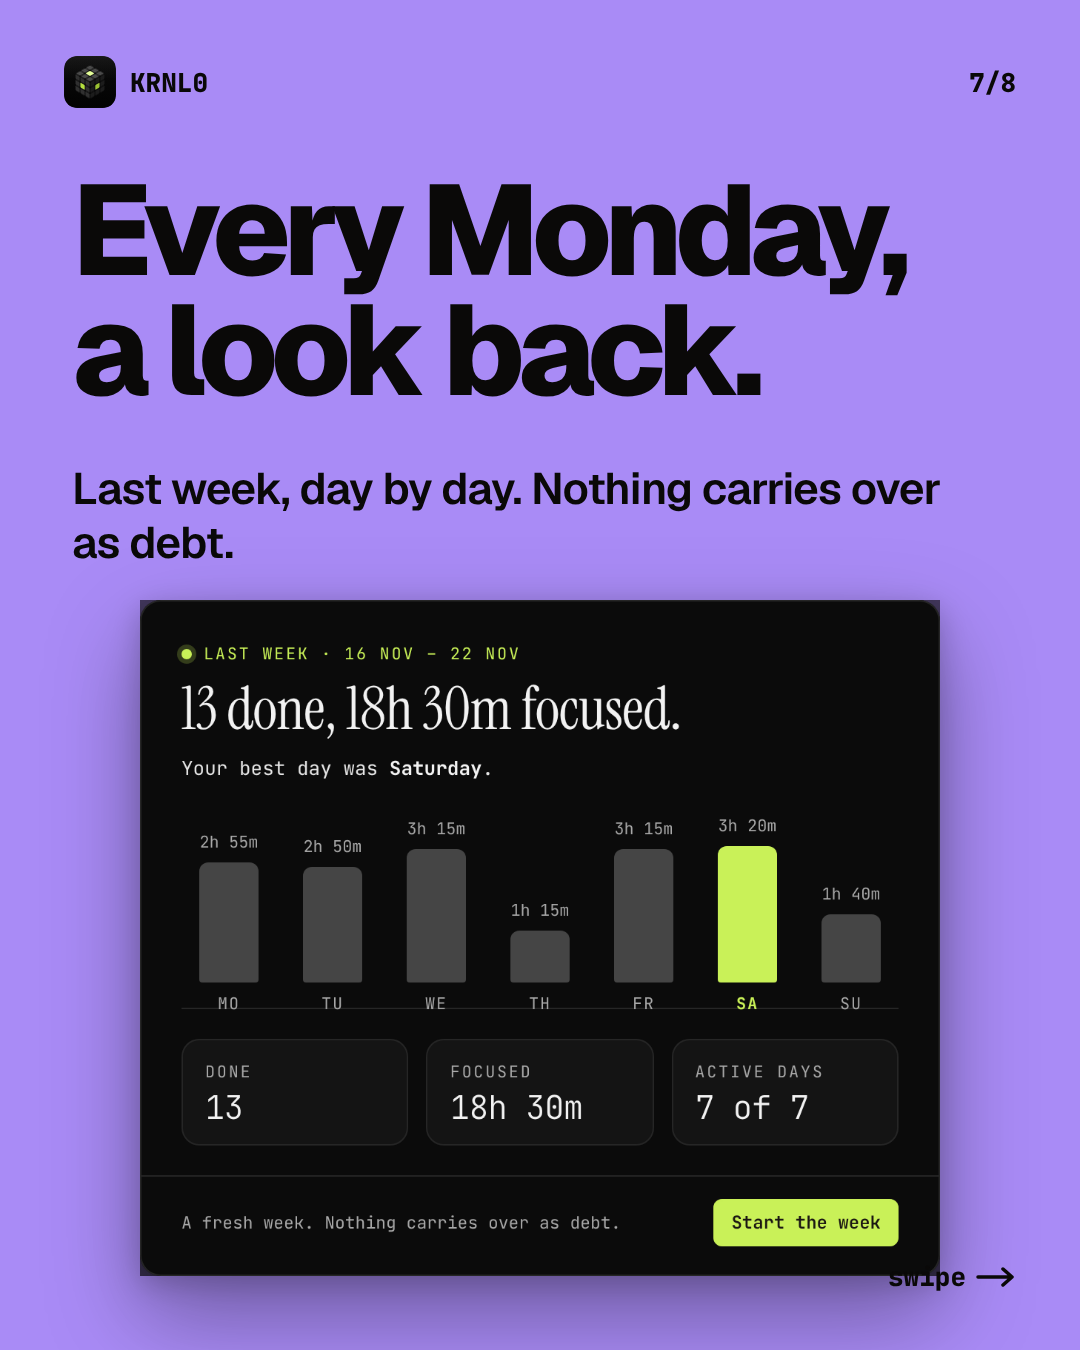
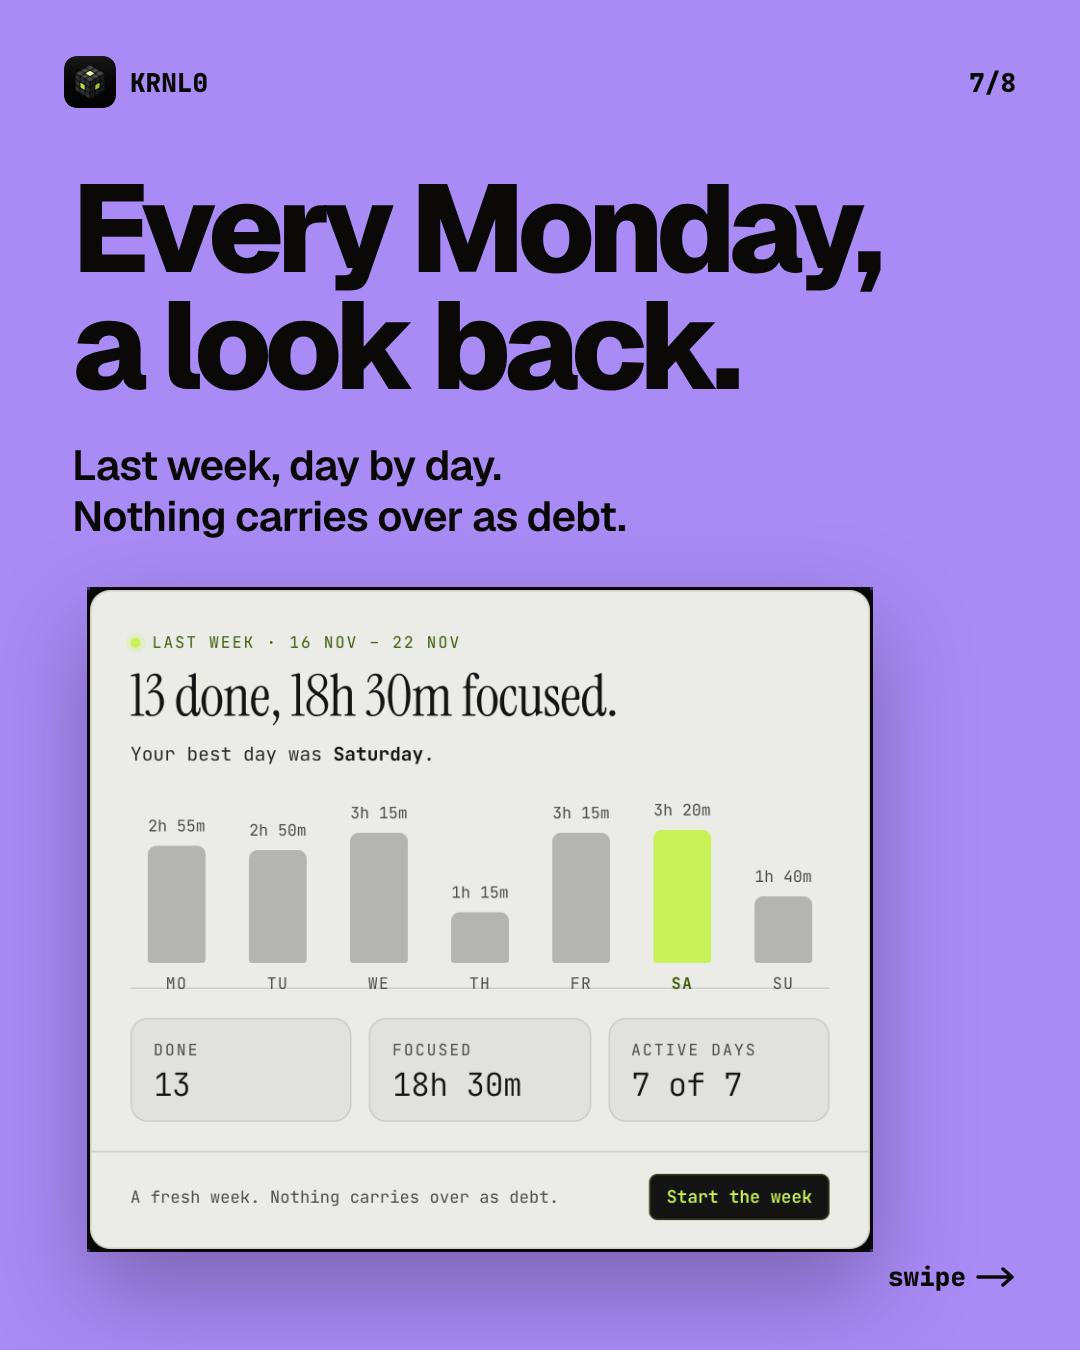
wip(marketing): carousel posts (02, 03, 04, 06, 08, 09, 10, 11 done)

diff --git a/marketing/posts/06-your-canvas/html/slide-6.html b/marketing/posts/06-your-canvas/html/slide-6.html
@@ -5,7 +5,7 @@ body{margin:0} .slide .h{position:absolute;left:64px;right:64px}
 .lab{position:absolute;z-index:2}</style></head><body><div class="slide lav">
 <div class="h headline" style="top:140px;font-size:104px">One shortcut<br>flips them.</div>
 <div class="h" style="top:372px"><span class="chip" style="font-size:34px;padding:12px 26px">Ctrl + Shift + L</span> <span style="font-family:var(--mono);font-weight:800;font-size:26px;margin-left:14px">⌘ + Shift + L on Mac</span></div>
-<div class="shot" style="left:120px;top:500px;width:840px"><img src="../shots/trim/station.png"></div>
-<div class="lab" style="left:64px;top:482px"><span class="chip" style="background:var(--paper);color:var(--ink)">My layout</span></div>
-<div class="shot" style="left:120px;top:971px;width:840px"><img src="../shots/trim/free.png"></div>
-<div class="lab" style="left:64px;top:953px"><span class="chip">Free canvas</span></div><div class="bar"><div class="brand"><img src="../../_shared/icon.svg" alt=""><span>KRNL0</span></div><span>6/7</span></div><div class="swipe">swipe <svg width="40" height="20" viewBox="0 0 40 20"><path d="M2 10h32M26 3l8 7-8 7" fill="none" stroke="currentColor" stroke-width="3.5" stroke-linecap="round" stroke-linejoin="round"/></svg></div></div></body></html>
+<div class="shot" style="left:64px;top:536px;width:700px"><img src="../shots/trim/station.png"></div>
+<div class="lab" style="left:64px;top:478px"><span class="chip" style="background:var(--paper);color:var(--ink)">My layout</span></div>
+<div class="shot" style="left:64px;top:958px;width:700px"><img src="../shots/trim/free.png"></div>
+<div class="lab" style="left:64px;top:900px"><span class="chip">Free canvas</span></div><div class="bar"><div class="brand"><img src="../../_shared/icon.svg" alt=""><span>KRNL0</span></div><span>6/7</span></div><div class="swipe">swipe <svg width="40" height="20" viewBox="0 0 40 20"><path d="M2 10h32M26 3l8 7-8 7" fill="none" stroke="currentColor" stroke-width="3.5" stroke-linecap="round" stroke-linejoin="round"/></svg></div></div></body></html>

diff --git a/marketing/posts/06-your-canvas/html/slide-4.html b/marketing/posts/06-your-canvas/html/slide-4.html
@@ -2,8 +2,8 @@
 body{margin:0} .slide .h{position:absolute;left:64px;right:64px}
 .shot{position:absolute;filter:drop-shadow(2px 0 0 #0a0908) drop-shadow(-2px 0 0 #0a0908) drop-shadow(0 2px 0 #0a0908) drop-shadow(0 -2px 0 #0a0908) drop-shadow(0 30px 40px rgba(0,0,0,.30))}
 .shot img{display:block;width:100%}
-</style></head><body><div class="slide ink">
+</style></head><body><div class="slide cyan">
 <div class="h headline" style="top:150px;font-size:128px">Group it<br>in a frame.</div>
 <div class="h sub" style="top:430px;max-width:860px">Drag the frame and everything inside moves with it.</div>
-<div class="shot" style="left:190px;top:560px;width:700px"><img src="../shots/trim/frame.png"></div>
-<div class="chip" style="position:absolute;left:64px;top:1299px;background:var(--acid);color:var(--ink)">Frame · F</div><div class="bar"><div class="brand"><img src="../../_shared/icon.svg" alt=""><span>KRNL0</span></div><span>4/7</span></div><div class="swipe">swipe <svg width="40" height="20" viewBox="0 0 40 20"><path d="M2 10h32M26 3l8 7-8 7" fill="none" stroke="currentColor" stroke-width="3.5" stroke-linecap="round" stroke-linejoin="round"/></svg></div></div></body></html>
+<div class="shot" style="left:210px;top:560px;width:660px"><img src="../shots/trim/frame.png"></div>
+<div class="chip" style="position:absolute;left:64px;top:1255px;background:var(--acid);color:var(--ink)">Frame · F</div><div class="bar"><div class="brand"><img src="../../_shared/icon.svg" alt=""><span>KRNL0</span></div><span>4/7</span></div><div class="swipe">swipe <svg width="40" height="20" viewBox="0 0 40 20"><path d="M2 10h32M26 3l8 7-8 7" fill="none" stroke="currentColor" stroke-width="3.5" stroke-linecap="round" stroke-linejoin="round"/></svg></div></div></body></html>

diff --git a/marketing/posts/05-planned-vs-spent/slides/slide-2.html b/marketing/posts/05-planned-vs-spent/slides/slide-2.html
@@ -1,8 +1,7 @@
 <!doctype html><html><head><meta charset="utf-8"><link rel="stylesheet" href="slides.css"></head><body>
 <div class="slide lav" id="s"><div class="bar"><div class="brand"><img src="../../_shared/icon.svg"><span>KRNL0</span></div><span>2/8</span></div>
-<div class="h" style="top:170px;font-size:122px">A list tells<br>you what.<br>Not how long.</div>
-<div class="sub" style="top:540px;font-size:44px">You write the plan. Then you guess the time.</div>
-<div class="shot" style="left:140px;top:690px;width:800px"><img src="../assets/todo.png"></div>
-<div class="cap" style="right:72px;top:1215px;display:none"></div>
-<span class="chip" style="position:absolute;right:140px;top:1222px;background:var(--ink)">&uarr; just a guess</span>
+<div class="h" style="top:170px;font-size:116px">Lists know what.<br>Not how long.</div>
+<div class="sub" style="top:430px;font-size:46px">You write the plan. Then you guess the time.</div>
+<span class="chip" style="position:absolute;right:76px;top:570px;background:var(--ink)">&darr; just a guess</span>
+<div class="shot" style="left:72px;top:650px;width:936px"><img src="../assets/todo.png"></div>
 <div class="swipe">swipe <svg width="40" height="22" viewBox="0 0 40 22" fill="none" stroke="currentColor" stroke-width="3.5" stroke-linecap="round" stroke-linejoin="round"><path d="M2 11h34M27 3l9 8-9 8"/></svg></div></div></body></html>

diff --git a/marketing/posts/05-planned-vs-spent/slides/slide-6.html b/marketing/posts/05-planned-vs-spent/slides/slide-6.html
@@ -1,6 +1,6 @@
 <!doctype html><html><head><meta charset="utf-8"><link rel="stylesheet" href="slides.css"></head><body>
-<div class="slide paper" id="s"><div class="bar"><div class="brand"><img src="../../_shared/icon.svg"><span>KRNL0</span></div><span>6/8</span></div>
-<div class="h" style="top:170px;font-size:128px">Every evening,<br>a recap.</div>
-<div class="sub" style="top:462px;max-width:900px">What got done, what was recorded, and how it went against the plan.</div>
-<div class="shot" style="left:140px;top:640px;width:800px"><img src="../assets/recap.png"></div>
+<div class="slide cyan" id="s"><div class="bar"><div class="brand"><img src="../../_shared/icon.svg"><span>KRNL0</span></div><span>6/8</span></div>
+<div class="h" style="top:170px;font-size:124px">Every evening,<br>a recap.</div>
+<div class="sub" style="top:440px;max-width:900px;font-size:42px">What got done, what was recorded, and how it went against the plan.</div>
+<div class="shot" style="left:100px;top:570px;width:840px"><img src="../assets/recap.png"></div>
 <div class="swipe">swipe <svg width="40" height="22" viewBox="0 0 40 22" fill="none" stroke="currentColor" stroke-width="3.5" stroke-linecap="round" stroke-linejoin="round"><path d="M2 11h34M27 3l9 8-9 8"/></svg></div></div></body></html>

diff --git a/marketing/posts/05-planned-vs-spent/slides/slide-7.html b/marketing/posts/05-planned-vs-spent/slides/slide-7.html
@@ -1,6 +1,6 @@
 <!doctype html><html><head><meta charset="utf-8"><link rel="stylesheet" href="slides.css"></head><body>
 <div class="slide lav" id="s"><div class="bar"><div class="brand"><img src="../../_shared/icon.svg"><span>KRNL0</span></div><span>7/8</span></div>
-<div class="h" style="top:170px;font-size:128px">Every Monday,<br>a look back.</div>
-<div class="sub" style="top:462px;max-width:900px">Last week, day by day. Nothing carries over as debt.</div>
-<div class="shot" style="left:140px;top:600px;width:800px"><img src="../assets/week.png"></div>
+<div class="h" style="top:170px;font-size:124px">Every Monday,<br>a look back.</div>
+<div class="sub" style="top:440px;max-width:900px;font-size:42px">Last week day by day,<br>with your best day picked out.</div>
+<div class="shot" style="left:90px;top:590px;width:780px"><img src="../assets/week.png"></div>
 <div class="swipe">swipe <svg width="40" height="22" viewBox="0 0 40 22" fill="none" stroke="currentColor" stroke-width="3.5" stroke-linecap="round" stroke-linejoin="round"><path d="M2 11h34M27 3l9 8-9 8"/></svg></div></div></body></html>

diff --git a/marketing/posts/06-your-canvas/html/slide-2.html b/marketing/posts/06-your-canvas/html/slide-2.html
@@ -2,7 +2,7 @@
 body{margin:0} .slide .h{position:absolute;left:64px;right:64px}
 .shot{position:absolute;filter:drop-shadow(2px 0 0 #0a0908) drop-shadow(-2px 0 0 #0a0908) drop-shadow(0 2px 0 #0a0908) drop-shadow(0 -2px 0 #0a0908) drop-shadow(0 30px 40px rgba(0,0,0,.30))}
 .shot img{display:block;width:100%}
-</style></head><body><div class="slide cyan">
+</style></head><body><div class="slide coral">
 <div class="h headline" style="top:150px;font-size:116px">Put anything<br>next to your plan.</div>
 <div class="h sub" style="top:430px;max-width:820px">Ideas, reminders and details sit right beside the task they belong to.</div>
 <div class="shot" style="left:60px;top:600px;width:960px"><img src="../shots/trim/beside.png"></div><div class="bar"><div class="brand"><img src="../../_shared/icon.svg" alt=""><span>KRNL0</span></div><span>2/7</span></div><div class="swipe">swipe <svg width="40" height="20" viewBox="0 0 40 20"><path d="M2 10h32M26 3l8 7-8 7" fill="none" stroke="currentColor" stroke-width="3.5" stroke-linecap="round" stroke-linejoin="round"/></svg></div></div></body></html>

diff --git a/marketing/posts/05-planned-vs-spent/slides/slide-4.html b/marketing/posts/05-planned-vs-spent/slides/slide-4.html
@@ -1,6 +1,6 @@
 <!doctype html><html><head><meta charset="utf-8"><link rel="stylesheet" href="slides.css"></head><body>
 <div class="slide coral" id="s"><div class="bar"><div class="brand"><img src="../../_shared/icon.svg"><span>KRNL0</span></div><span>4/8</span></div>
-<div class="h" style="top:170px;font-size:128px">Then, the<br>real numbers.</div>
-<div class="sub" style="top:462px">Planned vs spent, task by task and day by day.</div>
-<div class="shot" style="left:90px;top:560px;width:720px"><img src="../assets/plan_vs.png"></div>
+<div class="h" style="top:170px;font-size:116px">Then, the<br>real numbers.</div>
+<div class="sub" style="top:424px;font-size:42px">Planned vs spent: per task, per day.</div>
+<div class="shot" style="left:90px;top:500px;width:770px"><img src="../assets/plan_vs.png"></div>
 <div class="swipe">swipe <svg width="40" height="22" viewBox="0 0 40 22" fill="none" stroke="currentColor" stroke-width="3.5" stroke-linecap="round" stroke-linejoin="round"><path d="M2 11h34M27 3l9 8-9 8"/></svg></div></div></body></html>

diff --git a/marketing/posts/05-planned-vs-spent/slides/slides.css b/marketing/posts/05-planned-vs-spent/slides/slides.css
@@ -5,7 +5,7 @@
 .kicker { position: absolute; left: 72px; top: 168px; }
 .h { position: absolute; left: 72px; right: 72px; font-weight: 800; letter-spacing: -0.055em; line-height: .94; }
 .sub { position: absolute; left: 72px; right: 72px; font-weight: 600; font-size: 44px; line-height: 1.22; letter-spacing: -0.02em; }
-.shot { position: absolute; filter: drop-shadow(0 38px 46px rgba(0,0,0,.30)) drop-shadow(0 8px 14px rgba(0,0,0,.22)); }
+.shot { position: absolute; filter: drop-shadow(3px 0 0 var(--ink)) drop-shadow(-3px 0 0 var(--ink)) drop-shadow(0 3px 0 var(--ink)) drop-shadow(0 -3px 0 var(--ink)) drop-shadow(0 40px 48px rgba(0,0,0,.28)); }
 .shot img { display: block; width: 100%; height: auto; }
 .hi { display: inline-block; background: var(--ink); color: var(--acid); border-radius: 26px; padding: 0 .16em .06em; margin-left: -.04em; }
 .mono { font-family: var(--mono); font-weight: 800; }

diff --git a/marketing/posts/05-planned-vs-spent/slides/slide-3.html b/marketing/posts/05-planned-vs-spent/slides/slide-3.html
@@ -2,5 +2,5 @@
 <div class="slide cyan" id="s"><div class="bar"><div class="brand"><img src="../../_shared/icon.svg"><span>KRNL0</span></div><span>3/8</span></div>
 <div class="h" style="top:170px;font-size:140px">Press start.<br>It records.</div>
 <div class="sub" style="top:470px">Pick the plan. The time lands on the task.</div>
-<div class="shot" style="left:190px;top:660px;width:700px"><img src="../assets/timer.png"></div>
+<div class="shot" style="left:120px;top:590px;width:840px"><img src="../assets/timer.png"></div>
 <div class="swipe">swipe <svg width="40" height="22" viewBox="0 0 40 22" fill="none" stroke="currentColor" stroke-width="3.5" stroke-linecap="round" stroke-linejoin="round"><path d="M2 11h34M27 3l9 8-9 8"/></svg></div></div></body></html>

diff --git a/marketing/posts/05-planned-vs-spent/scripts/build.py b/marketing/posts/05-planned-vs-spent/scripts/build.py
@@ -11,7 +11,7 @@ CSS = """
 .kicker { position: absolute; left: 72px; top: 168px; }
 .h { position: absolute; left: 72px; right: 72px; font-weight: 800; letter-spacing: -0.055em; line-height: .94; }
 .sub { position: absolute; left: 72px; right: 72px; font-weight: 600; font-size: 44px; line-height: 1.22; letter-spacing: -0.02em; }
-.shot { position: absolute; filter: drop-shadow(0 38px 46px rgba(0,0,0,.30)) drop-shadow(0 8px 14px rgba(0,0,0,.22)); }
+.shot { position: absolute; filter: drop-shadow(3px 0 0 var(--ink)) drop-shadow(-3px 0 0 var(--ink)) drop-shadow(0 3px 0 var(--ink)) drop-shadow(0 -3px 0 var(--ink)) drop-shadow(0 40px 48px rgba(0,0,0,.28)); }
 .shot img { display: block; width: 100%; height: auto; }
 .hi { display: inline-block; background: var(--ink); color: var(--acid); border-radius: 26px; padding: 0 .16em .06em; margin-left: -.04em; }
 .mono { font-family: var(--mono); font-weight: 800; }
@@ -44,25 +44,24 @@ page(1, "acid", '''
 
 # 2 — the list says what, not how long ---------------------------------------
 page(2, "lav", '''
-<div class="h" style="top:170px;font-size:122px">A list tells<br>you what.<br>Not how long.</div>
-<div class="sub" style="top:540px;font-size:44px">You write the plan. Then you guess the time.</div>
-<div class="shot" style="left:140px;top:690px;width:800px"><img src="../assets/todo.png"></div>
-<div class="cap" style="right:72px;top:1215px;display:none"></div>
-<span class="chip" style="position:absolute;right:140px;top:1222px;background:var(--ink)">&uarr; just a guess</span>
+<div class="h" style="top:170px;font-size:116px">Lists know what.<br>Not how long.</div>
+<div class="sub" style="top:430px;font-size:46px">You write the plan. Then you guess the time.</div>
+<span class="chip" style="position:absolute;right:76px;top:570px;background:var(--ink)">&darr; just a guess</span>
+<div class="shot" style="left:72px;top:650px;width:936px"><img src="../assets/todo.png"></div>
 ''')
 
 # 3 — press start, it records -------------------------------------------------
 page(3, "cyan", '''
 <div class="h" style="top:170px;font-size:140px">Press start.<br>It records.</div>
 <div class="sub" style="top:470px">Pick the plan. The time lands on the task.</div>
-<div class="shot" style="left:190px;top:660px;width:700px"><img src="../assets/timer.png"></div>
+<div class="shot" style="left:120px;top:590px;width:840px"><img src="../assets/timer.png"></div>
 ''')
 
 # 4 — analytics window -----------------------------------------------------------
 page(4, "coral", '''
-<div class="h" style="top:170px;font-size:128px">Then, the<br>real numbers.</div>
-<div class="sub" style="top:462px">Planned vs spent, task by task and day by day.</div>
-<div class="shot" style="left:90px;top:560px;width:720px"><img src="../assets/plan_vs.png"></div>
+<div class="h" style="top:170px;font-size:116px">Then, the<br>real numbers.</div>
+<div class="sub" style="top:424px;font-size:42px">Planned vs spent: per task, per day.</div>
+<div class="shot" style="left:90px;top:500px;width:770px"><img src="../assets/plan_vs.png"></div>
 ''')
 
 # 5 — the number ------------------------------------------------------------------------
@@ -78,17 +77,17 @@ page(5, "ink", '''
 ''')
 
 # 6 — evening recap ---------------------------------------------------------------------------
-page(6, "paper", '''
-<div class="h" style="top:170px;font-size:128px">Every evening,<br>a recap.</div>
-<div class="sub" style="top:462px;max-width:900px">What got done, what was recorded, and how it went against the plan.</div>
-<div class="shot" style="left:140px;top:640px;width:800px"><img src="../assets/recap.png"></div>
+page(6, "cyan", '''
+<div class="h" style="top:170px;font-size:124px">Every evening,<br>a recap.</div>
+<div class="sub" style="top:440px;max-width:900px;font-size:42px">What got done, what was recorded, and how it went against the plan.</div>
+<div class="shot" style="left:100px;top:570px;width:840px"><img src="../assets/recap.png"></div>
 ''')
 
 # 7 — Monday look-back ---------------------------------------------------------------------------
 page(7, "lav", '''
-<div class="h" style="top:170px;font-size:128px">Every Monday,<br>a look back.</div>
-<div class="sub" style="top:462px;max-width:900px">Last week, day by day. Nothing carries over as debt.</div>
-<div class="shot" style="left:140px;top:600px;width:800px"><img src="../assets/week.png"></div>
+<div class="h" style="top:170px;font-size:124px">Every Monday,<br>a look back.</div>
+<div class="sub" style="top:440px;max-width:900px;font-size:42px">Last week day by day,<br>with your best day picked out.</div>
+<div class="shot" style="left:90px;top:590px;width:780px"><img src="../assets/week.png"></div>
 ''')
 
 # 8 — end -------------------------------------------------------------------------------------------

diff --git a/marketing/posts/06-your-canvas/scripts/build.py b/marketing/posts/06-your-canvas/scripts/build.py
@@ -39,7 +39,7 @@ page(1, "lav", f'''
 
 # 2 — next to your plan (coral)
 w, h = fit("beside", 960)
-page(2, "cyan", f'''
+page(2, "coral", f'''
 <div class="h headline" style="top:150px;font-size:116px">Put anything<br>next to your plan.</div>
 <div class="h sub" style="top:430px;max-width:820px">Ideas, reminders and details sit right beside the task they belong to.</div>
 <div class="shot" style="left:60px;top:600px;width:{w}px"><img src="../shots/trim/beside.png"></div>''')
@@ -59,12 +59,12 @@ page(3, "acid", f'''
 .row .chip{{font-size:30px;padding:8px 18px}}''')
 
 # 4 — frames (acid)
-w, h = fit("frame", 700)
-page(4, "ink", f'''
+w, h = fit("frame", 660)
+page(4, "cyan", f'''
 <div class="h headline" style="top:150px;font-size:128px">Group it<br>in a frame.</div>
 <div class="h sub" style="top:430px;max-width:860px">Drag the frame and everything inside moves with it.</div>
 <div class="shot" style="left:{(1080-w)//2}px;top:560px;width:{w}px"><img src="../shots/trim/frame.png"></div>
-<div class="chip" style="position:absolute;left:64px;top:{560+h+40}px;background:var(--acid);color:var(--ink)">Frame · F</div>''')
+<div class="chip" style="position:absolute;left:64px;top:{560+h+36}px;background:var(--acid);color:var(--ink)">Frame · F</div>''')
 
 # 5 — two layouts (paper)
 mw = 880; mh = round(mw * 501 / 960)
@@ -74,15 +74,15 @@ page(5, "paper", f'''
 <div class="chip" style="position:absolute;left:100px;top:{730+mh+56}px">Layout menu · top bar</div>''')
 
 # 6 — flip (lavender): the two layouts stacked, big enough to read
-cw = 840; sh_ = round(cw * S["station"][1] / S["station"][0]); fh = round(cw * S["free"][1] / S["free"][0])
-y1 = 500; y2 = y1 + sh_ + 56
+cw = 700; sh_ = round(cw * S["station"][1] / S["station"][0]); fh = round(cw * S["free"][1] / S["free"][0])
+y1 = 536; y2 = y1 + sh_ + 76
 page(6, "lav", f'''
 <div class="h headline" style="top:140px;font-size:104px">One shortcut<br>flips them.</div>
 <div class="h" style="top:372px"><span class="chip" style="font-size:34px;padding:12px 26px">Ctrl + Shift + L</span> <span style="font-family:var(--mono);font-weight:800;font-size:26px;margin-left:14px">⌘ + Shift + L on Mac</span></div>
-<div class="shot" style="left:120px;top:{y1}px;width:{cw}px"><img src="../shots/trim/station.png"></div>
-<div class="lab" style="left:64px;top:{y1-18}px"><span class="chip" style="background:var(--paper);color:var(--ink)">My layout</span></div>
-<div class="shot" style="left:120px;top:{y2}px;width:{cw}px"><img src="../shots/trim/free.png"></div>
-<div class="lab" style="left:64px;top:{y2-18}px"><span class="chip">Free canvas</span></div>''', extra_css=".lab{position:absolute;z-index:2}")
+<div class="shot" style="left:64px;top:{y1}px;width:{cw}px"><img src="../shots/trim/station.png"></div>
+<div class="lab" style="left:64px;top:{y1-58}px"><span class="chip" style="background:var(--paper);color:var(--ink)">My layout</span></div>
+<div class="shot" style="left:64px;top:{y2}px;width:{cw}px"><img src="../shots/trim/free.png"></div>
+<div class="lab" style="left:64px;top:{y2-58}px"><span class="chip">Free canvas</span></div>''', extra_css=".lab{position:absolute;z-index:2}")
 
 # 7 — CTA (acid)
 page(7, "acid", '''

diff --git a/marketing/posts/06-your-canvas/caption.md b/marketing/posts/06-your-canvas/caption.md
@@ -6,7 +6,7 @@ Most planners give you a column of tasks and nothing else. KRNL0 gives you a can
 
 Seven tools, one key each: Select (V), Text (N), Sticky note (S), Shape (R), Image (I), Pen (P), Frame (F).
 
-Want it tidy? My layout keeps your windows in a row. Want it loose? Free canvas lets you put anything anywhere. Ctrl + Shift + L flips between them, and each one stays as you left it.
+Want it tidy? My layout keeps your windows in a row. Want it loose? Free canvas lets you put anything anywhere. Ctrl + Shift + L (⌘ + Shift + L on Mac) flips between them, and each one stays as you left it.
 
 Make room for how you think.
 
@@ -21,5 +21,5 @@ Slides
 3. Think out loud. — the real dock, labelled with its seven tools and keys
 4. Group it in a frame. — a frame holding a title and three notes
 5. Tidy when you want. Free when you don't. — the real layout menu (My layout / Free canvas)
-6. One shortcut flips them. — Ctrl + Shift + L, My layout vs Free canvas side by side
+6. One shortcut flips them. — Ctrl + Shift + L (⌘ on Mac), My layout and Free canvas stacked
 7. Make room for how you think. — logo, K·R·N·L·0 tiles, Free download · link in bio
